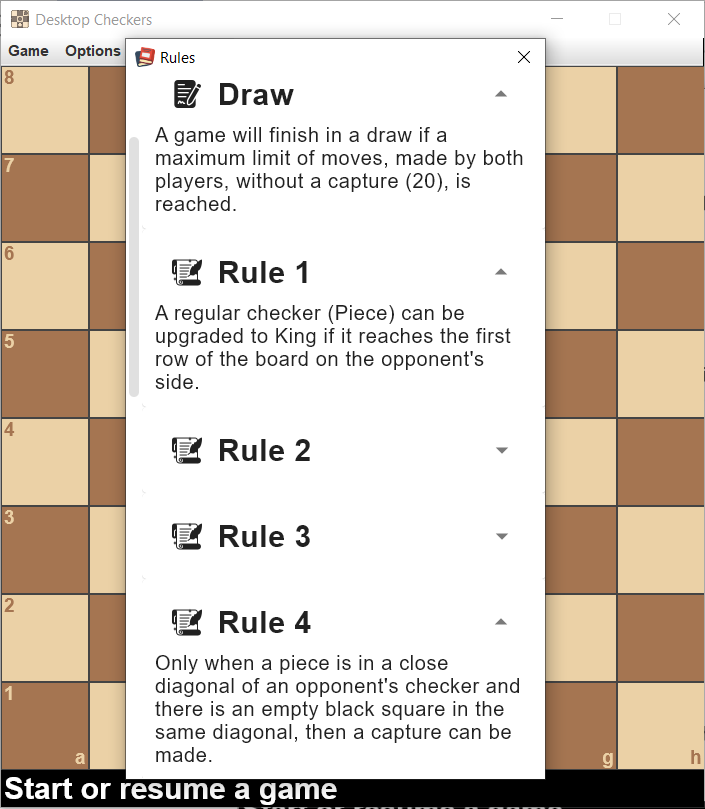
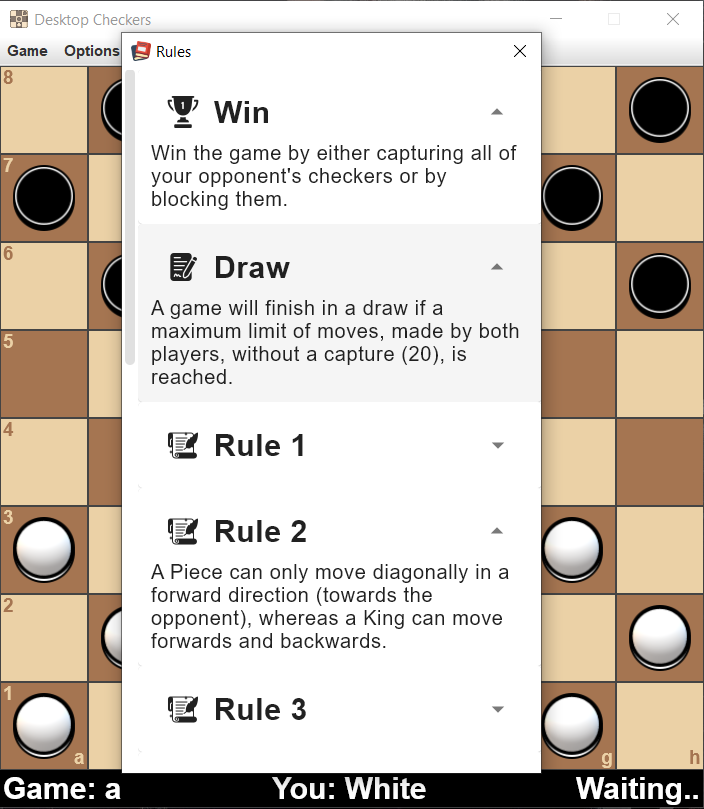
Fixed the rules window not properly opening when clicked because of recent file changes. Fixed an image bug in the README.md when in browser dark mode.

diff --git a/src/main/kotlin/checkers/ui/compose/dialogs/RulesDialog.kt b/src/main/kotlin/checkers/ui/compose/dialogs/RulesDialog.kt
@@ -82,7 +82,7 @@ fun RulesDialog(onDismiss: ()->Unit) = Dialog(
 @JvmInline
 value class Rule private constructor(val description: String) {
     companion object {
-        private val rulesFromFile = TextFile.read("Rules")
+        private val rulesFromFile = TextFile.read("file/Rules")
         val list = List(rulesFromFile.size) { idx -> Rule(rulesFromFile[idx]) }
     }
 }

diff --git a/README.md b/README.md
@@ -22,7 +22,7 @@ The whole project was a key evaluation point of the Software Development Techniq
 - [Known Bugs](#known-bugs)
 
 ## Download
-Download the application [here](https://mega.nz/file/tORxxYQD#X2U45qiYunXCkclDazf8ZrskB1yFfsDSPPXRto2Z_Cg).
+Download the application [here](https://mega.nz/file/BbIghYDD#97jdxe4eKTYX2n99AADqOsCb5dAEEg5Ks77qInV0MXY).
 
 ## Features
 - [X] Checker unique images
@@ -91,7 +91,7 @@ In the repository root, access <code>src/main/kotlin</code> where you can find t
 ### #1 - Menu option disappears
 <img alt="Menu Option" src="src/main/resources/report/bug-1.png" width="400">
 
-As the above image depicts, when a menu option opens a dialog window with a fixed height, that menu option disappears. The only workaround found was to set an unspecified height in the dialog state of the window, but for this context it could not be used.
+As the above image depicts, when a menu option opens a dialog window with a fixed height, that menu option disappears. The only workaround found was to set an unspecified height in the dialog state of the window or by manually resizing the window, but for this specific context it could not be used.
 A similar [issue](https://github.com/JetBrains/compose-jb/issues/414) was discovered, however as of this writing, there was no solution provided.
 
 ## Authors

diff --git a/Updates.md b/Updates.md
@@ -1,6 +1,10 @@
 # Checkers Desktop App
 This document will serve to store information about the new software implementations of the Checkers Desktop App project.
 
+## Update v1.26 (05/02/2023):
+- A user reported a bug on the dialog window not opening correctly. The issue was identified to be caused by the latest resources refactoring. 
+- Fixed a small image bug that could be seen in the README.md file when in browser dark mode.
+
 ## Update v1.25 (02/02/2023):
 - A new enum class representing the prerequisites for a board's first checker
   placement has been added, along with a new function to allow its usage.
